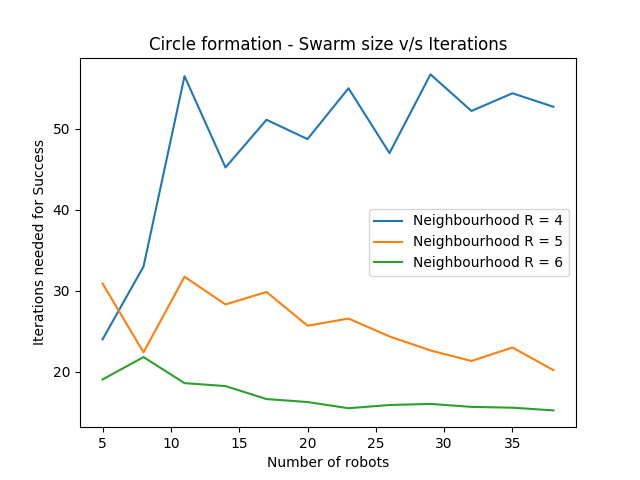
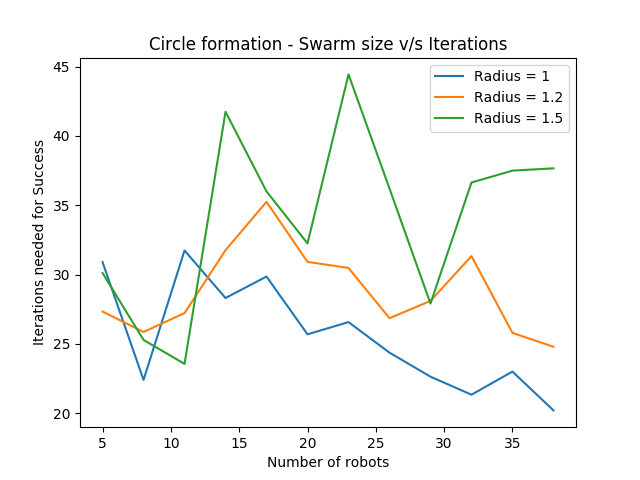
Circle iterations wrt swarm size and radius

diff --git a/algorithm_simulation/analysis.py b/algorithm_simulation/analysis.py
@@ -33,7 +33,7 @@ CSV_PATH = "csv/"
 NUM_BOTS = 20
 NUM_SIMULATIONS = 30
 
-TASK = "circle_r1-0"
+TASK = "circle_r1-2"
 METHOD = "centroid"
 PREFIX = 'IGNORE__n6--'
 
@@ -231,7 +231,8 @@ if __name__ == '__main__':
 		"""MULTI_GRAPH BLOCK"""
 
 		for i in range(3):
-			PREFIX = "IGNORE__n"+str(i+4)+"--"
+			PREFIX = "IGNORE__n"+str(6)+"--"
+			TASK = "circle_r"+r_name_list[i]
 			results = load_simulations(MIN_BOTS, MAX_BOTS,
 				INCREMENT, NUM_SIMULATIONS)
 			for j in range(len(results)):
@@ -239,7 +240,7 @@ if __name__ == '__main__':
 				results[j].produce_stats()
 				results[j].summary()
 			y = np.array([r.iterations for r in results])
-			plt.plot(x, y, label = "Neighbourhood R = "+str(i+4))
+			plt.plot(x, y, label = "Radius = "+str(r_list[i]))
 		
 		"""  
 

diff --git a/algorithm_simulation/simulate_gen_data.py b/algorithm_simulation/simulate_gen_data.py
@@ -46,7 +46,7 @@ if(len(sys.argv) >= 3):
 	NUM_BOTS = int(sys.argv[1])
 	NUM_SIMULATIONS = int(sys.argv[2])
 	CSV_PATH = sys.argv[3]
-	PREFIX = 'IGNORE__n6--'
+	PREFIX = 'IGNORE__n5--'
 
 
 #CSV_NAME = f"{TASK}-{METHOD}-iter{ITERATIONS}-sims{NUM_SIMULATIONS}.csv"

diff --git a/algorithm_simulation/swarm_lib.py b/algorithm_simulation/swarm_lib.py
@@ -15,7 +15,7 @@ import numpy as np
 import math
 import matplotlib.pyplot as plt
 
-DEFAULT_NEIGHBOURHOOD_VAL = 6
+DEFAULT_NEIGHBOURHOOD_VAL = 5
 
 #DEFAULT_NEIGHBOURHOOD_VAL = 5 #Radius of neighbourhood 
 DEFAULT_SIZE = 0.5 #Radius of chassis
